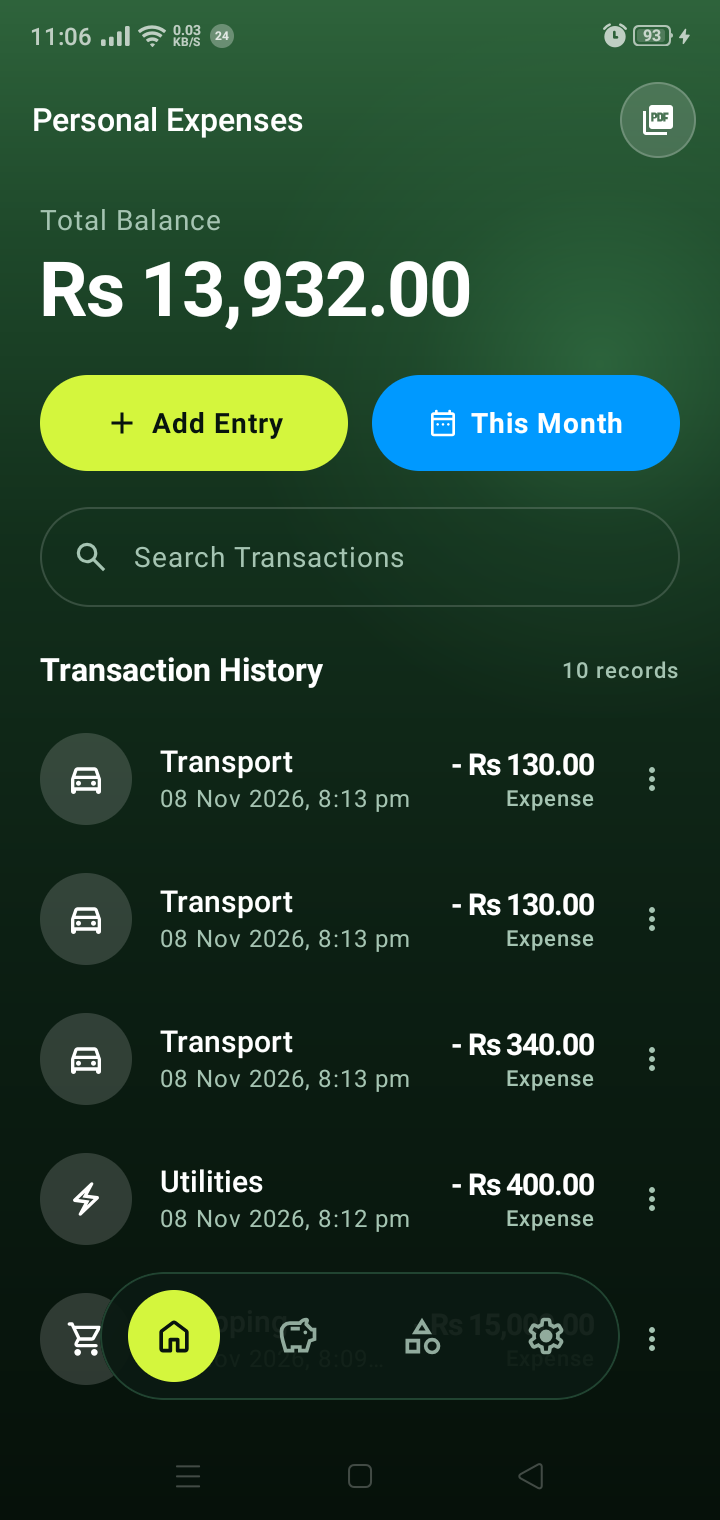
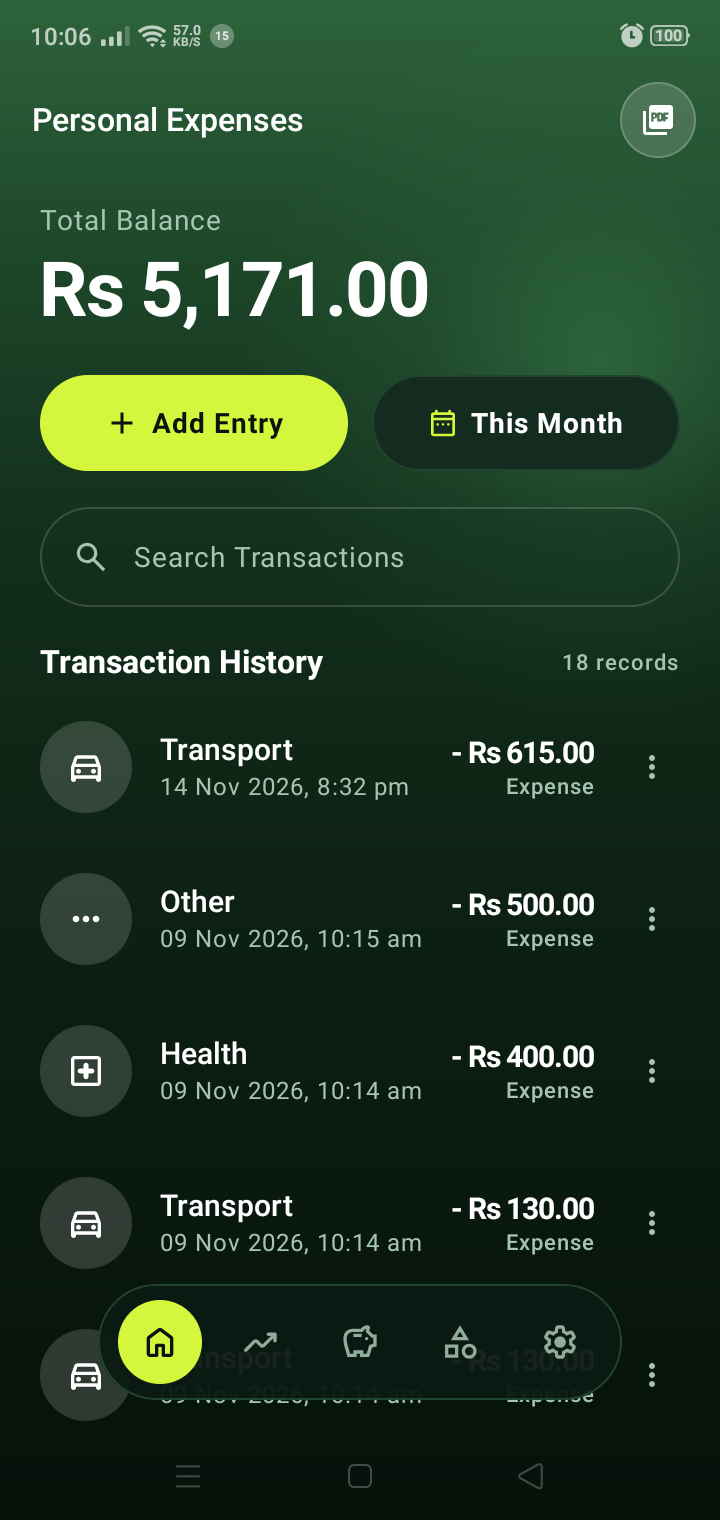
Update README screenshots with 5-tab navigation, canvas chart, and categories recency

diff --git a/README.md b/README.md
@@ -6,9 +6,13 @@ A production-grade, offline-first personal finance Android application built wit
 
 ## Screenshots
 
-| Personal Expenses Dashboard | Add Entry (Calm Theme) | Financial Overview |
+| Personal Expenses Dashboard | Visual Analytics (Canvas Chart) | Financial Overview (Ledger) |
 | :---: | :---: | :---: |
-| <img src="docs/screenshots/dashboard.png" width="240" alt="Personal Expenses Dashboard" /> | <img src="docs/screenshots/transaction_form.png" width="240" alt="Calm Transaction Entry Form" /> | <img src="docs/screenshots/financial_overview.png" width="240" alt="Financial Overview Modal" /> |
+| <img src="docs/screenshots/dashboard.png" width="240" alt="Personal Expenses Dashboard" /> | <img src="docs/screenshots/analytics_chart.png" width="240" alt="Visual Analytics Canvas Chart" /> | <img src="docs/screenshots/financial_overview.png" width="240" alt="Financial Overview Ledger Tab" /> |
+
+| Category Management | In-App Settings | Add Entry Form |
+| :---: | :---: | :---: |
+| <img src="docs/screenshots/categories.png" width="240" alt="Category Management Tab" /> | <img src="docs/screenshots/settings.png" width="240" alt="In-App Settings Tab" /> | <img src="docs/screenshots/transaction_form.png" width="240" alt="Calm Transaction Entry Form" /> |
 
 | PDF Statement Export | Proactive Permission Verification | System Share Sheet |
 | :---: | :---: | :---: |
@@ -24,9 +28,11 @@ A production-grade, offline-first personal finance Android application built wit
 
 ### Core Capabilities
 - **Offline First** — fully functional without internet, always. Room SQLite database is the local single source of truth.
+- **Hardware-Accelerated Visual Analytics** — zero-dependency native Jetpack Compose `Canvas` time-series engine with 3-way toggle (Expenses, Income, Balance), Bézier curve interpolation, dashed horizontal benchmarks, interactive touch scrubbing with haptic ticks, automatic dismissal on drag finish, and strict capping at elapsed time (no future date placeholders). Inactive days carry forward closing balance flat steps.
+- **5-Tab Non-Slidable Navigation** — 5 dedicated top-level full-screen tabs (`Home`, `Analytics`, `Ledger`, `Categories`, `Settings`) docked via a floating pill bar with 1-tap switching and clean gesture isolation from list scrolling. System back returns cleanly to Home.
 - **Transaction Management** — add, edit, and soft-delete income and expense transactions, with atomic balance recalculation on every operation.
 - **Smart Balance Tracking** — real-time running balance with O(1) reads, maintained directly on the ledger entity rather than recalculated by scanning historical rows.
-- **Category System** — transactions organized by categories with Material Symbol icons, seeded automatically on first launch with fixed, idempotent IDs, plus user custom category creation.
+- **Category System with Relative Recency** — transactions organized by categories with Material Symbol icons, seeded automatically on first launch with fixed, idempotent IDs, user custom category creation, and all-time relative recency metadata (`Never used` or `X transactions • Last X ago • Rs X`).
 - **Search & Multi-Category Filtering** — live debounced search query flow and bottom sheet multi-category filters with active badge counters.
 - **Strategy-Driven Date Filtering** — period filtering (`AllTime`, `Today`, `ThisWeek`, `ThisMonth`, `ThisYear`, `Custom`) implemented via the Strategy Pattern for zero-coupling extensibility, allowing complete historical inspection across all time (`0L to Long.MAX_VALUE`).
 - **Currency Support** — default currency detected from the device's SIM country (falling back to locale), searchable currency picker supporting 150+ currencies with natural colloquial symbols (`Rs` for PKR, `$` for USD, `₹` for INR, `€` for EUR, `£` for GBP, etc.).
@@ -36,7 +42,7 @@ A production-grade, offline-first personal finance Android application built wit
 - **Export to PDF Statements** — generate professional, hardware-accelerated ISO A4 PDF statements with executive summary cards (inflow, outflow, net balance) and itemized ledger tables; automatically inherits dashboard filters and supports live in-modal customization with two dedicated export flows:
   - **Save in Phone / SD Storage**: Proactively verifies storage permissions (with `WRITE_EXTERNAL_STORAGE` on API $\le 28$ and Scoped Storage `MediaStore` on Android 10+), automatically detects preferred storage (Phone Storage or external SD Card), and writes directly to `Download/ExpenseTracker/` with an interactive "Open" snackbar and SAF fallback.
   - **Share PDF**: Seamlessly shares the generated statement via Android's secure `FileProvider` and system chooser.
-- **Contextual Material 3 Tooltips** — accessible, dark-forest-styled tooltips (`AppTooltip`) across interactive icon buttons and actions (PDF Export, Home, Ledger, Categories, Settings, Add Entry, Period Filter, Clear Search, Back Navigation, and Transaction Menus) triggerable via long-press on touch screens and hover on pointers.
+- **Contextual Material 3 Tooltips** — accessible, dark-forest-styled tooltips (`AppTooltip`) across interactive icon buttons and actions (PDF Export, Home, Analytics, Ledger, Categories, Settings, Add Entry, Period Filter, Clear Search, Back Navigation, and Transaction Menus) triggerable via long-press on touch screens and hover on pointers.
 - **Structured Error Handling** — sealed `UiError` hierarchy and `AppResult<T>` wrapper around all repository operations.
 
 ---
@@ -47,12 +53,12 @@ The app features a bespoke **Organic Forest Luxury** fintech aesthetic inspired 
 
 - **Base Canvas**: Radiant moss-to-obsidian vertical canopy gradient (`#2E633B` $\to$ `#122E1B` $\to$ `#06110A`) with an organic ambient top-right radial light source matching the mockup aesthetic.
 - **Hero Balance**: Large, uncluttered bold balance typography (`Rs 156,532.00`) floating directly on the radiant green canopy with unified optical scale, zero clutter, and direct visual hierarchy flowing straight into the action pills.
-- **High-Energy Action Pills**: Thumb-friendly quick actions row right below the hero balance: symmetrical 50/50 split with **Neon Lime** `+ Add Entry` pill and **Sky Blue** `This Month` period filter, providing balanced ergonomic reach without redundant actions.
+- **High-Energy Action Pills**: Thumb-friendly quick actions row right below the hero balance: symmetrical 50/50 split with **Neon Electric Lime** `+ Add Entry` pill and **Forest Card** `This Month` period filter with Electric Lime calendar badge.
 - **Embedded Search Pill**: Floating translucent search capsule (`🔍 Search Transactions`) directly embedded on the dashboard for instant, debounced real-time filtering.
-- **Floating Pill Bottom Navigation**: Floating dark glass navigation capsule (`#0B1A12` with 32dp corner radius) docked at the bottom with 4 circular glass icons (Home, Overview, Categories, Settings) that float gracefully above scrolling content, serving as the single source of truth for global navigation.
-- **Total Cards & Stitched Leathercraft Modal**: Tapping the Ledger icon (`🏛`) in the floating bottom bar opens the Screen 2 inspection sheet featuring the handcrafted stitched leathercraft card with dual yellow Savings and blue Spend account pills.
-- **Streamlined Non-Redundant Navigation**: Each action has exactly one clear, dedicated home — Settings is accessed exclusively via the floating bar's profile tab, Categories filter via the bottom bar tag, and Total Cards via the ledger icon, eliminating duplicate triggers and back-button ambiguity.
-- **Directional Cashflow**: Emerald Green (`#10B981`) with `+` sign for Inflow/Deposits; Crimson Rose (`#F43F5E`) with `−` sign for Outflow/Expenses.
+- **Floating Pill Bottom Navigation**: Floating dark glass navigation capsule (`#0B1A12` with 29dp corner radius) docked at the bottom with 5 circular icons (Home, Analytics, Ledger, Categories, Settings) that float gracefully above scrolling content, serving as the single source of truth for global navigation.
+- **Stitched Leathercraft Financial Overview**: Dedicated Ledger tab featuring the handcrafted stitched leathercraft overview card with dual Electric Lime Inflow and Crimson Outflow account summary pills.
+- **Streamlined Non-Redundant Navigation**: Each action has exactly one clear, dedicated home — Settings is accessed via the 5th floating tab, Categories management via the 4th tab, Financial Overview via the 3rd tab, Visual Analytics via the 2nd tab, and Home via the 1st tab.
+- **Directional Cashflow**: Emerald Green (`#10B981`) for Inflow/Deposits; Crimson Rose (`#F43F5E`) for Outflow/Expenses; Electric Lime (`#D4F63D`) for Primary CTAs and Balance trajectory.
 - **Humanized Micro-Copy**: Dynamic balance health indicators (*"✦ Healthy financial balance maintained"*), status badges (*"✦ Live Ledger"*), and conversational relative timestamps (*"Today, 2:30 PM • Food"*).
 - **Full Compose Preview Coverage**: 100% of standalone presentation components include light and dark `@Preview` annotations for instant design inspection in Android Studio.
 
